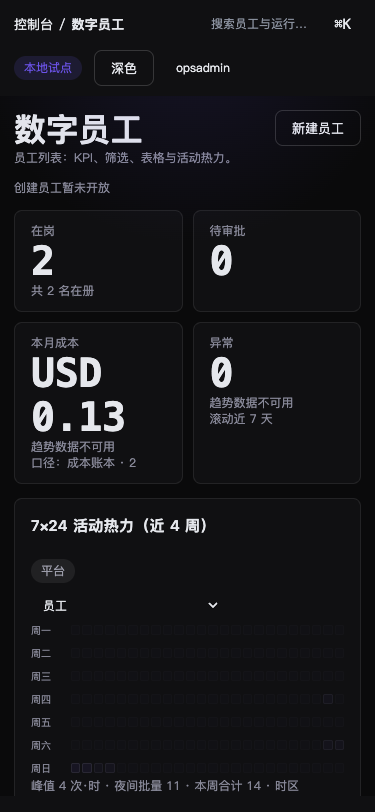
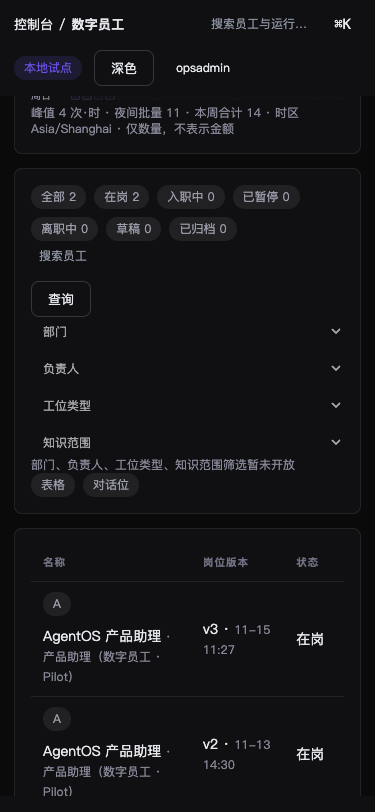
fix(console-v2): EMP-01 L6 round3 - expanded 1280 sidebar, table-visible C2 re-shoots with rects and blob hashes
Icon-rail media query moved max-width:1439px -> 1023px so 1280 keeps the
expanded 240px sidebar (parity spec 2). All five C2 interaction shots
re-taken at 1440x900 with the table scrolled into frame; 375x812 dark
shot proves fixed rail (top=796 bottom=812 pos=fixed) and employee row
(top=582) share the frame; 1280x800 light shot shows railW=240 with
labels visible and table in view. EVIDENCE gains per-file git blob
hashes, sips pixels and readout values. lint 0; targeted 9 files 112
passed; diff-check 0. EMP-01 stays in-progress (C0-B open).

diff --git a/src/frontend/platform/src/pages/AgentConsoleV2/consoleShell.css b/src/frontend/platform/src/pages/AgentConsoleV2/consoleShell.css
@@ -246,8 +246,10 @@
   }
 }
 
-/* 1024-1439: icon rail (72px) even when not manually collapsed. */
-@media (max-width: 1439px) {
+/* 768-1023: icon rail (72px) even when not manually collapsed. Per parity spec
+ * §2 the 1024-1439 band keeps the expanded 240px sidebar, so the label-hiding
+ * breakpoint must not swallow 1280 (L6 round 3). */
+@media (max-width: 1023px) {
   .agent-app .a2s-frame {
     grid-template-columns: 72px minmax(0, 1fr);
   }

diff --git a/docs/validation/console/employees-list/EVIDENCE.md b/docs/validation/console/employees-list/EVIDENCE.md
@@ -179,3 +179,35 @@ Readouts (full text in readout.txt, `l4w2r C1/C2 rework readout` section):
 - full platform test: Tests 43 failed | 1747 passed (1790) -> frozen baseline 43 failed / 18 files, new failures 0, passed strictly increased
 - build:platform exit 0; VITE_AGENT_CONSOLE_V2=1 build:platform exit 0 (entry assets/js/index-_oTHR00v.js); git diff --check exit 0
 - C0-B still open -> page stays in-progress, no PASS judgement here.
+
+## L6 round-3 evidence re-shoot (2026-11-16 00:1x, dev 5399 preview)
+
+Corrections to prior rounds:
+- Previous C2 interaction shots captured the viewport top (KPI/heatmap area),
+  not the table rows. All five C2 shots are RE-TAKEN at 1440x900 with the
+  table scrolled into frame (scrollIntoView block:end, table bottom rect
+  885 <= vh 900) before each screenshot.
+- 1280 band previously collapsed the rail to a 72px icon strip. Fixed by
+  moving the icon-rail media query from max-width:1439px to max-width:1023px
+  (parity spec 2: 1024-1439 keeps the expanded 240px sidebar). No rename or
+  reuse of old files; every listed blob replaces its predecessor.
+
+Capture method: opsadmin real login through BFF session (cookies cleared
+first), dev preview server :5399 (proxy /agent-api -> 8092 real BFF, real
+data), CDP Emulation.setDeviceMetricsOverride for exact viewports,
+sips-verified pixels below.
+
+| file | blob | bytes | px | in-frame proof (readout) |
+|---|---|---|---|---|
+| w2-c2-url.png | 1d120dea6db6fb3e84d153c418b64342e53d6f92 | 106022 | 1440x900 | URL ?keyword=AgentOS&lifecycleState=active survives reload; inputVal=AgentOS; rows=2; costs USD 0.12 / USD 0.01 |
+| w2-c2-search.png | 676c3db166b65f61591fd427268673749bc79439 | 106277 | 1440x900 | typed AgentOS -> URL ?keyword=AgentOS; rows=2 in frame |
+| w2-c2-sort.png | 52017e7eafbe147b5f94e347adf371b09649927c | 106376 | 1440x900 | cost asc: URL ?sort=cost:asc, aria-sort=ascending, row order changed USD 0.12->0.01 becomes 0.01->0.12 (before-readout C2_SORTBEFORE vs C2_SORTASC); second click -> descending restores |
+| w2-c2-viewchat.png | 9ed895fc32aa171ed45be7ed68ca17fa664d2990 | 88614 | 1440x900 | ?view=chat honest state text '对话位聚合视图未接入' |
+| w2-c2-nextpage.png | b17642f7caee02fd52063c26803159155b934b9c | 100185 | 1440x900 | ?limit=1 -> click next -> server keyset cursor appended to URL (eyJjcmVhdGVkQXQiOi...) row changes cost 0.12 -> 0.01 |
+| w2-employees-375x812-dark-table.png | 96eb595086dde217a88f49541bb112e9d691fe2e | 57729 | 375x812 | rail rect top=796 bottom=812 position=fixed vh=812 AND employee row top=582 bottom=697 -> rail + table same frame |
+| w2-employees-1280x800-light.png | ae25b7b1853795f22f8adb39d8f019a3681ccece | 95489 | 1280x800 | rail width=240, nav labels displayed (labelShown=true), navCount=8, table top=558 in vh=800 |
+
+Scope note: per-page client-side sort only (E11 has no server sort param);
+pagination cursor is server-issued keyset. No fake values: missing cells
+render '—'; sort readouts above are real BFF data through the preview proxy.
+EMP-01 stays in-progress; C0-B items remain open.
